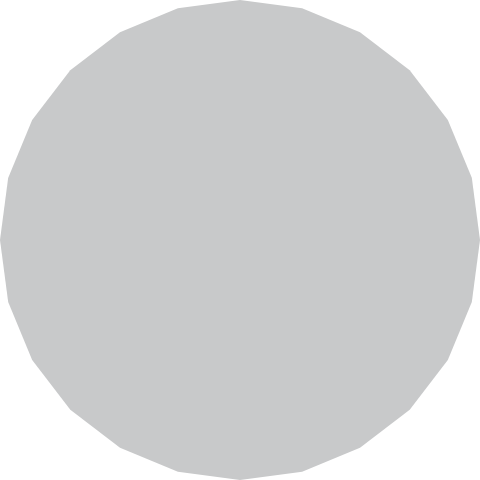
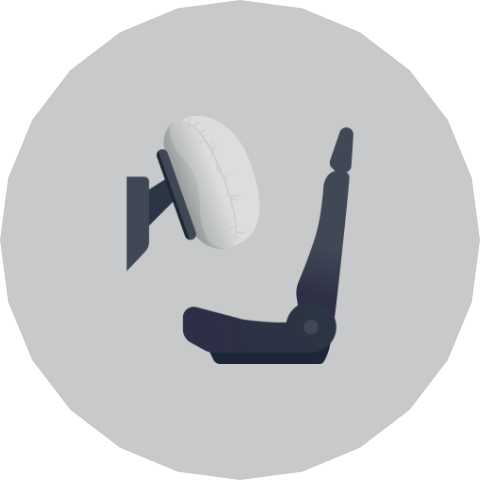
:bookmark: OG画像と画像差し替え

Changed region(s): [[0.375, 0.25, 0.75, 0.7812], [0.25, 0.25, 0.4375, 0.5625]]

diff --git a/htdocs/cellulose/story/index.html b/htdocs/cellulose/story/index.html
@@ -23,8 +23,8 @@
     <meta property="og:title" content="ダイセルのセルロースの歴史と未来｜株式会社ダイセル" />
     <meta property="og:description" content="ダイセルは創業より100 年以上に渡り、セルロースの研究・開発を進め、新しい価値を生み出し続け、世の中に提供しています。" />
     <meta property="og:url" content="https://www.daicel.com/cellulose/story/" />
-    <meta property="og:image" content="https://www.daicel.com/cellulose/images/ogp.png" />
-    <meta property="og:site_name" content="ナノダイヤソリューション | 株式会社ダイセル" />
+    <meta property="og:image" content="https://www.daicel.com/cellulose/images/ogp.jpg" />
+    <meta property="og:site_name" content="" />
     <meta property="og:locale" content="ja_JP" />
     <meta name="google-site-verification" content="X6qxvrd-njryOQSyvNZVPsGIRMRjK0-w8SzUfIbVP_o" />
     <link rel="shortcut icon" href="/common_img/symbol/favicon.ico" />

diff --git a/htdocs/cellulose/products/index.html b/htdocs/cellulose/products/index.html
@@ -23,8 +23,8 @@
     <meta property="og:title" content="ダイセルのセルロース製品｜株式会社ダイセル" />
     <meta property="og:description" content="ダイセルのセルロースは、多様な目的に合わせ緻密に特性をデザインすることで様々な製品に採用され社会に役立っています。" />
     <meta property="og:url" content="https://www.daicel.com/cellulose/products/" />
-    <meta property="og:image" content="https://www.daicel.com/cellulose/images/ogp.png" />
-    <meta property="og:site_name" content="ナノダイヤソリューション | 株式会社ダイセル" />
+    <meta property="og:image" content="https://www.daicel.com/cellulose/images/ogp.jpg" />
+    <meta property="og:site_name" content="" />
     <meta property="og:locale" content="ja_JP" />
     <meta name="google-site-verification" content="X6qxvrd-njryOQSyvNZVPsGIRMRjK0-w8SzUfIbVP_o" />
     <link rel="shortcut icon" href="/common_img/symbol/favicon.ico" />

diff --git a/htdocs/cellulose/index.html b/htdocs/cellulose/index.html
@@ -23,8 +23,8 @@
     <meta property="og:title" content="ダイセルのセルロース｜株式会社ダイセル" />
     <meta property="og:description" content="ダイセルが100年かけて磨き上げてきた、栽培できる素材セルロースをご紹介します。" />
     <meta property="og:url" content="https://www.daicel.com/cellulose/" />
-    <meta property="og:image" content="https://www.daicel.com/cellulose/images/ogp.png" />
-    <meta property="og:site_name" content="ナノダイヤソリューション | 株式会社ダイセル" />
+    <meta property="og:image" content="https://www.daicel.com/cellulose/images/ogp.jpg" />
+    <meta property="og:site_name" content="" />
     <meta property="og:locale" content="ja_JP" />
     <meta name="google-site-verification" content="X6qxvrd-njryOQSyvNZVPsGIRMRjK0-w8SzUfIbVP_o" />
     <link rel="shortcut icon" href="/common_img/symbol/favicon.ico" />

diff --git a/htdocs/cellulose/pagelist/index.html b/htdocs/cellulose/pagelist/index.html
@@ -22,8 +22,8 @@
   <meta property="og:title" content="テンプレート 画面一覧" />
   <meta property="og:description" content="" />
   <meta property="og:url" content="https://www.daicel.com" />
-  <meta property="og:image" content="https://www.daicel.com/cellulose/images/ogp.png" />
-  <meta property="og:site_name" content="ナノダイヤソリューション | 株式会社ダイセル" />
+  <meta property="og:image" content="https://www.daicel.com/cellulose/images/ogp.jpg" />
+  <meta property="og:site_name" content="" />
   <meta property="og:locale" content="ja_JP" />
   <meta name="google-site-verification" content="X6qxvrd-njryOQSyvNZVPsGIRMRjK0-w8SzUfIbVP_o" />
   <link rel="shortcut icon" href="/common_img/symbol/favicon.ico" />

diff --git a/src/constants/metaData.ts b/src/constants/metaData.ts
@@ -36,8 +36,8 @@ export const metaData: metaDataType = {
   base: {
     domain: 'https://www.daicel.com',
     favicon: '/common_img/symbol/favicon.ico',
-    ogp: '/cellulose/images/ogp.png',
-    site_name: "ナノダイヤソリューション | 株式会社ダイセル",
+    ogp: '/cellulose/images/ogp.jpg',
+    site_name: "",
     locale: "ja_JP",
     google_site_verification: "X6qxvrd-njryOQSyvNZVPsGIRMRjK0-w8SzUfIbVP_o",
     android_touch_icon: "/cellulose/images/android-touch-icon.png",
